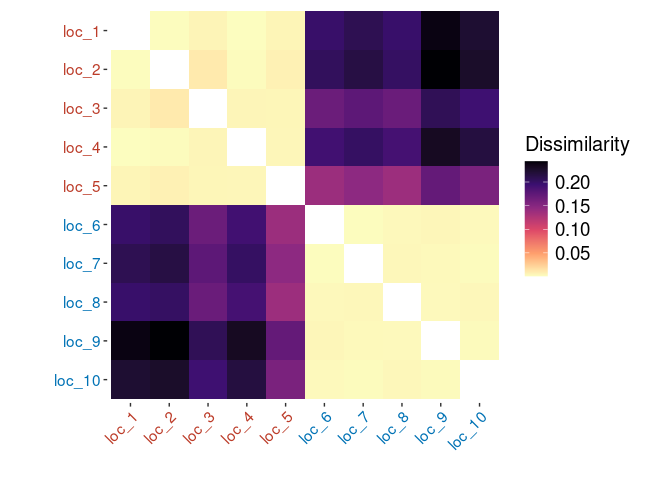
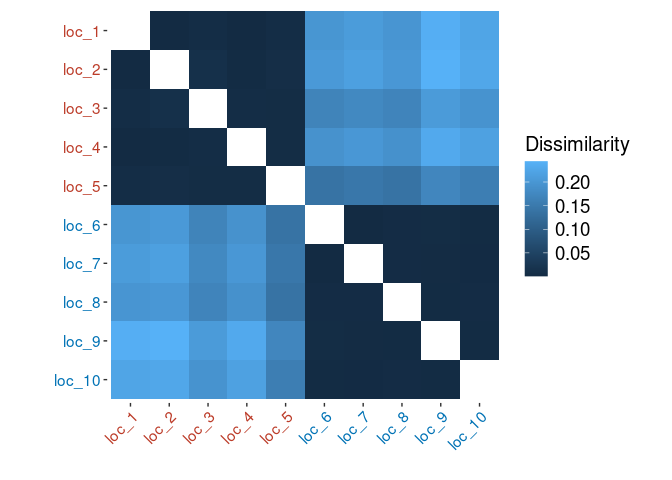
Add quick usage section

diff --git a/README.md b/README.md
@@ -21,7 +21,7 @@ package which implements the method described in [O’Toole et al.,
 clustering multivariate extreme events based on their tail dependence
 structures using the conditional extremes model of Heffernan and Tawn
 (Heffernan & Tawn, 2004). For more details of the methodology and usage
-of the package, please see it’s vignette by running `vignette("CeCl")`
+of the package, please see its vignette by running `vignette("CeCl")`
 after installation.
 
 ## Installation
@@ -33,6 +33,22 @@ You can install the development version of `CeCl` from
 # install.packages("pak")
 pak::pak("potoole7/CeCl")
 ```
+
+## Quick usage
+
+Once installed, you can apply the main `CeCl` workflow in three steps:
+
+``` r
+marg <- cecl_marg(data)   # performs marginal transformation
+dep  <- cecl_dep(marg)    # fits conditional extremes models
+clust <- cecl_clust(dep)  # clusters based on tail dependence
+```
+
+This fits the conditional extremes models to each group/location and
+clusters them based on their tail dependence structure. For detailed
+options, see the function help pages
+(`?cecl_marg, ?cecl_dep, ?cecl_clust`) or the vignette
+(`vignette("CeCl")`).
 
 ## Example
 
@@ -49,14 +65,6 @@ correlation parameters for different clusters.
 library(CeCl)
 library(copula)
 library(dplyr)
-#> 
-#> Attaching package: 'dplyr'
-#> The following objects are masked from 'package:stats':
-#> 
-#>     filter, lag
-#> The following objects are masked from 'package:base':
-#> 
-#>     intersect, setdiff, setequal, union
 library(ggplot2)
 
 # function to generate multivariate t data with specified correlation
@@ -126,19 +134,21 @@ fitted conditional extremes models.
 #> Number of clusters: 2 
 #> Adjusted Rand index: 1
 
-# Visualise clustering result with dissimalrity matrix labelled by cluster
+# Visualise clustering result with dissimilarity matrix labelled by cluster
 ggplot(clust, which = "image")
-#> Warning: Vectorized input to `element_text()` is not officially supported.
-#> ℹ Results may be unexpected or may change in future versions of ggplot2.
-#> Vectorized input to `element_text()` is not officially supported.
-#> ℹ Results may be unexpected or may change in future versions of ggplot2.
 ```
 
-<img src="man/figures/README-cluster_cecl-1.png" width="100%" /> We can
-confirm from the Adjusted Rand Index from the printed `cecl_clust`
-object that the clustering has perfectly recovered the true clusters of
-locations based on their tail dependence structures. Our dissimilarity
-matrix plot also clearly shows two distinct clusters of locations.
+<img src="man/figures/README-cluster_cecl-1.png" width="100%" /><img src="man/figures/README-cluster_cecl-2.png" width="100%" />
+We can confirm from the Adjusted Rand Index from the printed
+`cecl_clust` object that the clustering has perfectly recovered the true
+clusters of locations based on their tail dependence structures. Our
+dissimilarity matrix plot also clearly shows two distinct clusters of
+locations.
+
+## License
+
+This project is licensed under the MIT License - see the
+[LICENSE](LICENSE) file for details.
 
 <div id="refs" class="references csl-bib-body hanging-indent"
 line-spacing="2">
